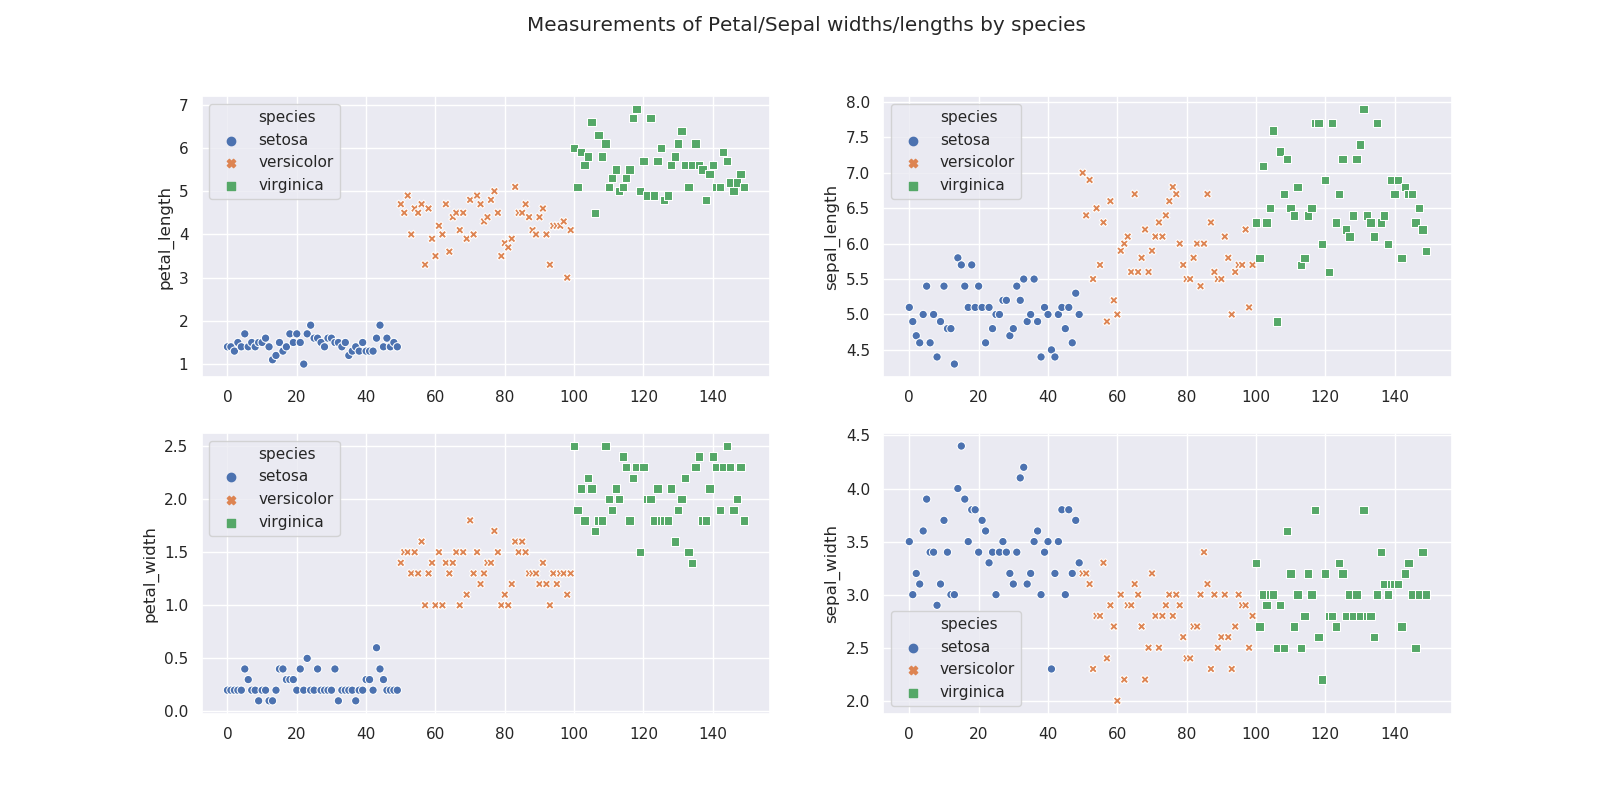
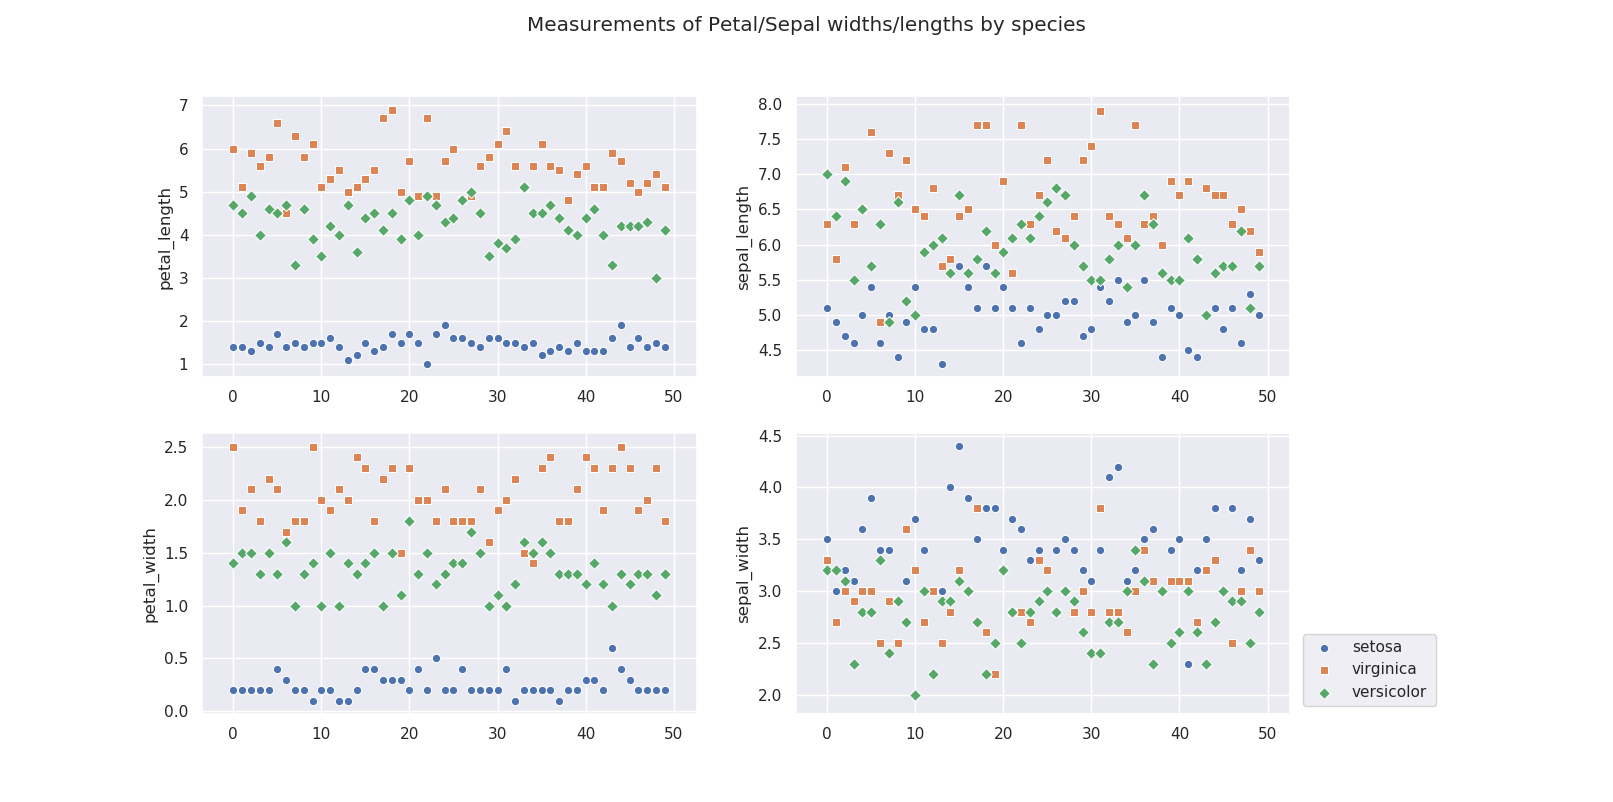
Updated seaborn code and 2x2 plot diagram

diff --git a/seaborn_iris.py b/seaborn_iris.py
@@ -2,6 +2,7 @@
 # In week 12 videos we saw how some Iris plots were done in seaborn. It is much simpler code and only took a few minutes to put together. In my view the seaborn plots are visually better.
 import seaborn as sns
 import matplotlib.pyplot as plot
+import pandas as pd
 
 #sns.set_style("ticks")  # Set the plot style
 sns.set()  # Sets default styling
@@ -12,12 +13,43 @@ plot.subplots_adjust(top=0.9) # Adapted from from https://stackoverflow.com/a/29
 
 plot.show() #Show the plot
 
+# Adapted from https://stackoverflow.com/a/17071908
+# Separate species into different dataframes
+setosa = dfs.loc[dfs['species'] == 'setosa']   # Access a Dataframe by label species=setosa and assign to setosa variable
+virginica = dfs.loc[dfs['species'] == 'virginica']
+versicolor = dfs.loc[dfs['species'] == 'versicolor']
+
+s = pd.Series(range(0,50)) # makes a pandas Series used to reindex the virginica and versicolor indexes
+vi = virginica.set_index(s)
+ve = versicolor.set_index(s)  # https://pandas.pydata.org/pandas-docs/stable/reference/api/pandas.DataFrame.set_index.html#pandas.DataFrame.set_index
+
+g1 , axes = plot.subplots(nrows=2,ncols=2)  # Adpated from https://matplotlib.org/gallery/subplots_axes_and_figures/subplots_demo.html . Make a figure and axes object for subplot with 2 rows and 2 columns
+sns.scatterplot(x=setosa.index,y='petal_length',data=setosa,ax=axes[0,0],marker="o",legend="full") # Apdapted from https://seaborn.pydata.org/generated/seaborn.scatterplot.html . Makes a scatter plot with x-axis (index), y-axis (petal length), hued by species in axes postion 0,0. Style/markers by species.
+sns.scatterplot(x=vi.index,y='petal_length',data=vi,ax=axes[0,0],marker="s")
+sns.scatterplot(x=ve.index,y='petal_length',data=ve,ax=axes[0,0],marker="D")
+
+sns.scatterplot(x=setosa.index,y='sepal_length',data=setosa,ax=axes[0,1],marker="o") # Apdapted from https://seaborn.pydata.org/generated/seaborn.scatterplot.html . Makes a scatter plot with x-axis (index), y-axis (petal length), hued by species in axes postion 0,0. Style/markers by species.
+sns.scatterplot(x=vi.index,y='sepal_length',data=vi,ax=axes[0,1],marker="s")
+sns.scatterplot(x=ve.index,y='sepal_length',data=ve,ax=axes[0,1],marker="D")
 
 
-f , axes = plot.subplots(nrows=2,ncols=2)  # Adpated from https://matplotlib.org/gallery/subplots_axes_and_figures/subplots_demo.html . Make a figure and axes object for subplot with 2 rows and 2 columns
-sns.scatterplot(x=dfs.index,y='petal_length',data=dfs,hue='species',ax=axes[0,0],style='species') # Apdapted from https://seaborn.pydata.org/generated/seaborn.scatterplot.html . Makes a scatter plot with x-axis (index), y-axis (petal length), hued by species in axes postion 0,0. Style/markers by species.
-sns.scatterplot(x=dfs.index,y='sepal_length',data=dfs,hue='species',ax=axes[0,1],style='species')
-sns.scatterplot(x=dfs.index,y='petal_width',data=dfs,hue='species',ax=axes[1,0],style='species')
-sns.scatterplot(x=dfs.index,y='sepal_width',data=dfs,hue='species',ax=axes[1,1],style='species')
-f.suptitle("Measurements of Petal/Sepal widths/lengths by species") # Adds a super-title to the figure
+sns.scatterplot(x=setosa.index,y='petal_width',data=setosa,ax=axes[1,0],marker="o") # Apdapted from https://seaborn.pydata.org/generated/seaborn.scatterplot.html . Makes a scatter plot with x-axis (index), y-axis (petal length), hued by species in axes postion 0,0. Style/markers by species.
+sns.scatterplot(x=vi.index,y='petal_width',data=vi,ax=axes[1,0],marker="s")
+sns.scatterplot(x=ve.index,y='petal_width',data=ve,ax=axes[1,0],marker="D")
+
+sns.scatterplot(x=setosa.index,y='sepal_width',data=setosa,ax=axes[1,1],marker="o") # Apdapted from https://seaborn.pydata.org/generated/seaborn.scatterplot.html . Makes a scatter plot with x-axis (index), y-axis (petal length), hued by species in axes postion 0,0. Style/markers by species.
+sns.scatterplot(x=vi.index,y='sepal_width',data=vi,ax=axes[1,1],marker="s")
+sns.scatterplot(x=ve.index,y='sepal_width',data=ve,ax=axes[1,1],marker="D")
+g1.suptitle("Measurements of Petal/Sepal widths/lengths by species") # Adds a super-title to the figure
+plot.legend(("setosa","virginica","versicolor"),bbox_to_anchor=(1.01, 0, 0.3, 1), loc="lower left", mode="expand", ncol=1)
+plot.subplots_adjust(right=0.8) # Adapted from from https://stackoverflow.com/a/29814281 Adjusts the top of the plot to make room for the super-title.
 plot.show()
+
+
+#f , axes = plot.subplots(nrows=2,ncols=2)  # Adpated from https://matplotlib.org/gallery/subplots_axes_and_figures/subplots_demo.html . Make a figure and axes object for subplot with 2 rows and 2 columns
+#sns.scatterplot(x=dfs.index,y='petal_length',data=dfs,hue='species',ax=axes[0,0],style='species') # Apdapted from https://seaborn.pydata.org/generated/seaborn.scatterplot.html . Makes a scatter plot with x-axis (index), y-axis (petal length), hued by species in axes postion 0,0. Style/markers by species.
+#sns.scatterplot(x=dfs.index,y='sepal_length',data=dfs,hue='species',ax=axes[0,1],style='species')
+#sns.scatterplot(x=dfs.index,y='petal_width',data=dfs,hue='species',ax=axes[1,0],style='species')
+#sns.scatterplot(x=dfs.index,y='sepal_width',data=dfs,hue='species',ax=axes[1,1],style='species')
+#f.suptitle("Measurements of Petal/Sepal widths/lengths by species") # Adds a super-title to the figure
+#plot.show()

diff --git a/iris.py b/iris.py
@@ -127,13 +127,13 @@ plot.show()
 #print('Setosa STD sepal length is ', setosa['sepal_length'].std())
 
 
-y=df.describe()
-y.to_csv('description.csv')
+y=df.describe() # This makes a number of calculations in one go.
+y.to_csv('description.csv') # Used this csv to generate a table for the README
 
-sy=setosa.describe()
-sy.to_csv('setosa_description.csv')
-viy=vi.describe()
-viy.to_csv('virginica_description.csv')
-vey=ve.describe()
-vey.to_csv('versicolor_description.csv')
+sy=setosa.describe() # This makes a number of calculations in one go.
+sy.to_csv('setosa_description.csv') # Used this csv to generate a table for the README
+viy=vi.describe()# This makes a number of calculations in one go.
+viy.to_csv('virginica_description.csv') # Used this csv to generate a table for the README
+vey=ve.describe()# This makes a number of calculations in one go.
+vey.to_csv('versicolor_description.csv') # Used this csv to generate a table for the README
 
